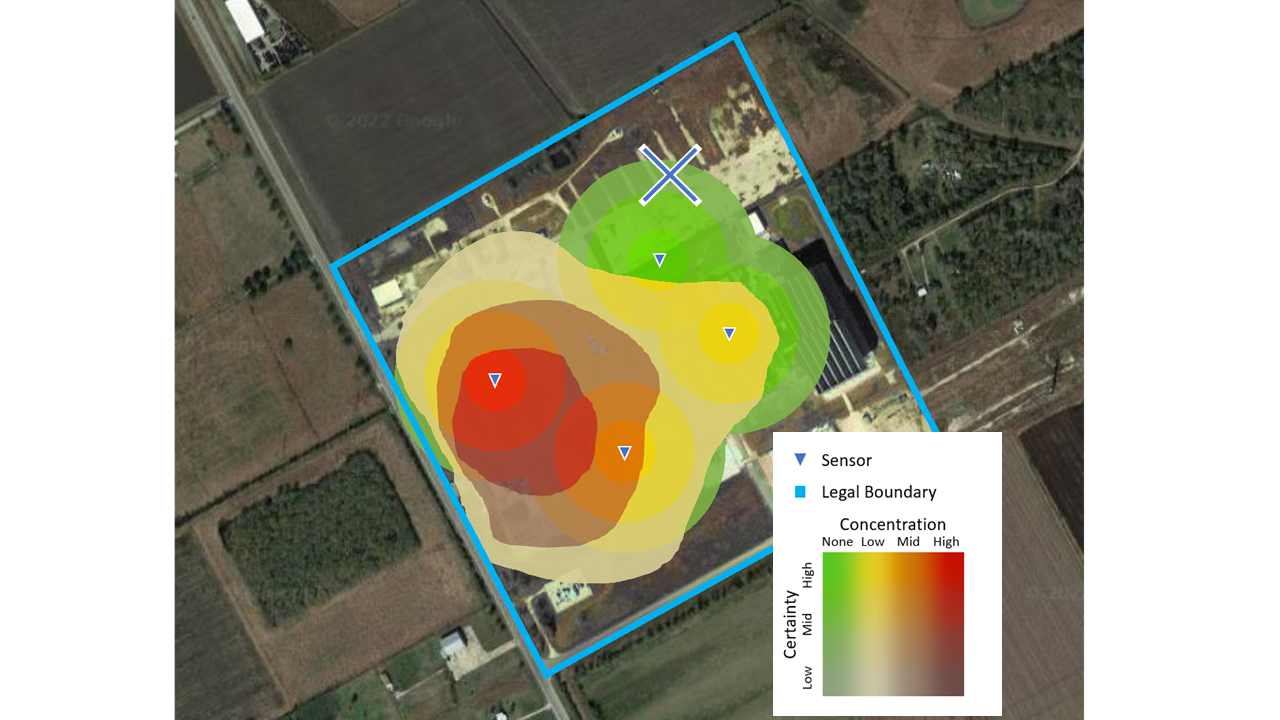
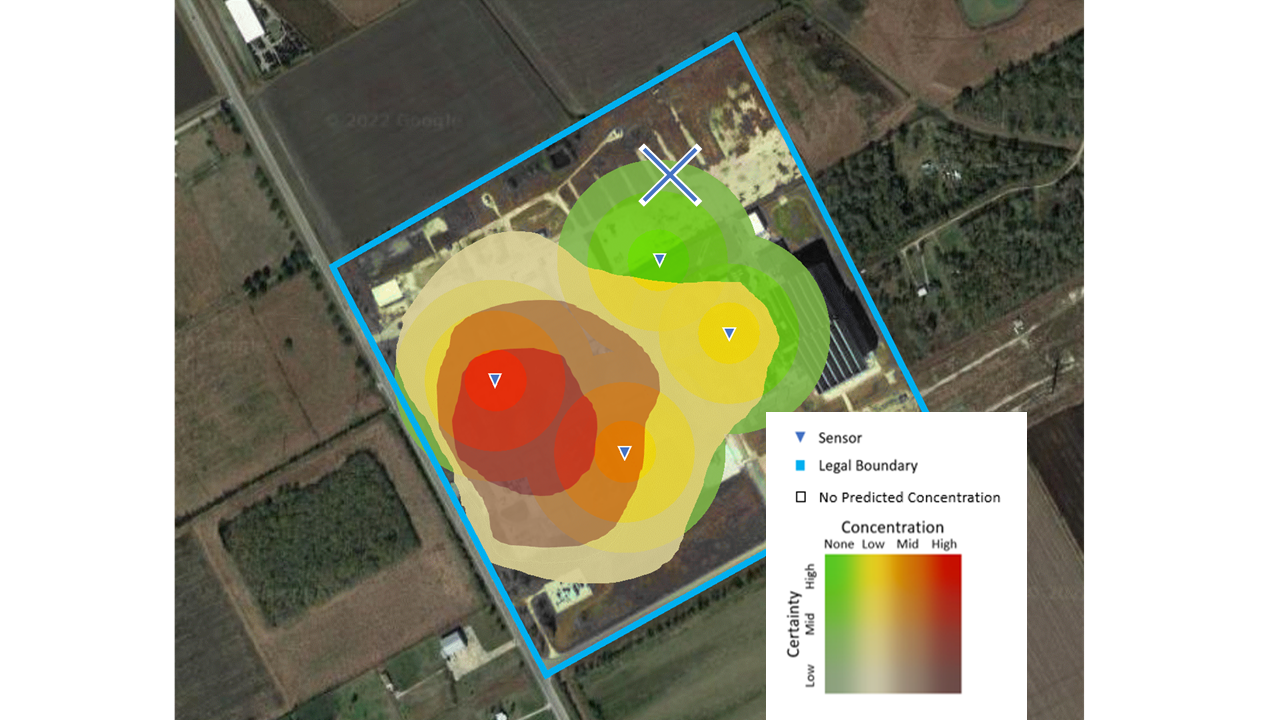
Changed images with new legend. Added questions relating to no concentration .

Changed region(s): [[0.5938, 0.55, 0.8125, 1.0]]

diff --git a/Version 2/instructions.js b/Version 2/instructions.js
@@ -10,31 +10,35 @@ const instructionText = {
     "visPage": [
         {
             "name": "Texture",
-            "text": "This visualization type employs colour and texture to differentiate between the concentration of the pollutants and the certainty of the pollution model.\n\nDifferent colours are used to distinguish between the levels of concentration, while textures (e.g., crosshatching, dotting) show the different degrees of certainty.",
+            "text": "This visualization type uses colour and texture to differentiate between the concentration of the pollutants and the certainty of the pollution model.\n\nDifferent colours are used to distinguish between the levels of concentration, while textures (e.g., crosshatching, dotting) show the different degrees of certainty.",
             "img-1": "vis-baseline.png",
             "img-2": "texture-instruct.png"
         },
         {
             "name": "HSV",
-            "text": "This visualization type uses colour value and colour saturation to differentiate between the concentration of the pollutants and the certainty of the pollution model.\n\nThe value of the colour shows the level of concentration, while the saturation shows the level of certainty.",
+            "text": "This visualization type uses colour value (i.e., the hue of the colour, such as red, green, or blue) and colour saturation (on a scale from grey to pure colour) to differentiate between the concentration of the pollutants and the certainty of the pollution model.\n\nThe value of the colour shows the level of concentration: for example, a red colour indicates high concentration. The saturation shows the level of certainty: for example, a greyish red indicates high concentration but low certainty.",
             "img-1": "vis-baseline.png",
             "img-2": "hsv-instruct.png"
         },
         {
             "name": "Static",
-            "text": "This visualization type uses a modelling algorithm to predict the extent of pollutants at a location. The visualization shows several outcomes of the model while using different sets of parameters.\nAll of the individual results are overlaid on the map at the same time.\n\nIndividual model outcomes are represented with grey lines. The red line indicates the average outcome of the model for high concentrations of the pollutant. The orange line indicates the average for medium concentrations of the pollutant. The yellow line indicates the average for low concentrations of the pollutant.",
+            "text": "This visualization type uses a modeling algorithm to predict the extent of pollutants at a location. All the predicted areas of concentration are overlaid onto a static map at the same time."
+            + "\n\nThe model makes a prediction of the polluted area at three different concentration levels: high, medium, and low. Multiple predictions of the model are made at each concentration level, and the results are overlaid on the map all at once in a static image."
+            + "\n\nIndividual model outcomes are represented with grey lines at various concentrations. Summary lines are used to indicate the average model prediction at each concentration level: a red line for the high concentration area, an orange line for the medium concentration area, and a yellow line for the low concentration area.",
             "img-1": "vis-baseline.png",
             "img-2": "static-instruct.png"
         },
         {
             "name": "Animated",
-            "text": "This visualization type uses a modelling algorithm to predict the extent of pollutants at a location. The visualization shows several outcomes of the model while using different sets of parameters.\nThe individual results are shown in different frames of the animation, as well as a coloured line that is used to show the average outcome.\n\nIndividual model outcomes are represented with grey lines. The red line indicates the average outcome of the model for high concentrations of the pollutant. The orange line indicates the average for medium concentrations of the pollutant. The yellow line indicates the average for low concentrations of the pollutant.",
+            "text": "This visualization type uses a modeling algorithm to predict the extent of pollutants at a location. An animation is used to show the different areas of pollutant concentration that are predicted by the model."
+                + "\n\nThe model makes a prediction of the polluted area at three different concentration levels: high, medium, and low. Multiple predictions of the model are made at each concentration level, and the results are animated onto the map one line at a time. Each individual line appears one by one in the visualization, followed by a coloured summary line that shows the mean of the lines at that concentration level."
+                + "\n\nIndividual model outcomes are represented with grey lines at various concentrations. Summary lines are used to indicate the average model prediction at each concentration level: a red line for the high concentration area, an orange line for the medium concentration area, and a yellow line for the low concentration area.",
             "img-1": "vis-baseline.png",
             "img-2": "animated-instruct.gif"
         },
         {
             "name": "VSUP",
-            "text": "This visualization type uses a value-suppressing uncertainty palette to show both pollutant contamination and certainty of the predictive model. A value-suppressing uncertainty palette maps both the pollutant contamination concentration and certainty of the predictive model to an output colour, with a greater ranger of colours reserved for more certain values. As concentration increases, the colour value changes. As the contamination concentration becomes less certain, there are less potential colours. Concentration values are split into more colours when the certainty is high, and fewer colours when the certainty is low.\n\nFor example, a high concentration prediction and a medium concentration prediction will have two different colours if they are nearby a sensor, as the certainty will be high. If the concentration predictions are further from a sensor, both predictions may be mapped to the same colour.",
+            "text": "This visualization type uses a value-suppressing uncertainty palette to show both pollutant contamination and certainty of the predictive model. A value-suppressing uncertainty palette maps both the pollutant contamination concentration and certainty of the predictive model to an output colour, with a greater ranger of colours reserved for more certain values. As concentration increases, the colour value changes. As the contamination concentration becomes less certain, there are fewer potential colours. Concentration values are split into more colours when the certainty is high, and fewer colours when the certainty is low.\n\nFor example, a high concentration prediction and a medium concentration prediction will have two different colours if they are nearby a sensor, as the certainty will be high. If the concentration predictions are further from a sensor, both predictions may be mapped to the same colour.",
             "img-1": "vis-baseline.png",
             "img-2": "vsup-instruct.png"
         },
@@ -54,27 +58,27 @@ const instructionText = {
     "questionPage": {
         "multiple": {
             "name": "Multiple Choice",
-            "text": "The following set of questions will be multiple choice questions, similar to the example above. Read the question carefully and select the response which most accurately and correctly answers the question.",
+            "text": "The following set of questions will be multiple choice questions, similar to the example above. A visualization image will be presented with each question. Read the question carefully and select the response which most accurately and correctly answers the question.",
             "img": "multiple-choice-instruction.png"
         },
         "click": {
             "name": "Click",
-            "text": "The following set of questions will require you to click on the image itself to answer the question. Read the question carefully and click on the location on the image which most accurately and correctly answers the question.",
+            "text": "The following set of questions will require you to click on the image itself to answer the question. A visualization image will be presented with each question. Read the question carefully and click on the location on the image which most accurately and correctly answers the question.",
             "img": "click-instruction.png"
         },
         "multiple-text": {
             "name": "Multiple Choice - Textbox",
-            "text": "The following set of questions will be multiple choice questions, followed by a text-entry box to describe your reasoning for your answer, similar to the example above. Read the question carefully and select the response which most accurately and correctly answers the question, and provide a reason for your response.",
+            "text": "The following set of questions will be multiple choice questions, followed by a text-entry box to describe your reasoning for your answer, similar to the example above. A visualization image will be presented with each question. Read the question carefully and select the response which most accurately and correctly answers the question, and provide a reason for your response.",
             "img": "multiple-choice-text-instruction.png"
         },
         "text": {
             "name": "Text Box",
-            "text": "The following set of questions will be a short answer question. Read the question carefully and enter your answer in the provided text box.",
+            "text": "The following set of questions will be a short answer question. A visualization image will be presented with each question. Read the question carefully and enter your answer in the provided text box.",
             "img": "text-instruction.png"
         },
         "mouseover": {
             "name": "Mouseover",
-            "text": "The following set of questions will include a mix of question types. In order to answer the questions, use your mouse to hover over the image, where a tooltip will inform you of the pollution model's certainty at that mouse location. Read the question carefully before providing your response.",
+            "text": "The following set of questions will include a mix of question types. In order to answer the questions, use your mouse to hover over the image, where a tooltip will inform you of the pollution model's certainty at that mouse location. A visualization image will be presented with each question. Read the question carefully before providing your response.",
             "img": "mouseover-instruct.png"
         }
     }

diff --git a/Version 2/questions.js b/Version 2/questions.js
@@ -668,7 +668,67 @@ const questions = {
             "orderGroup": 2,
             "RQ": 1
         },
-        
+        // No concentration questions
+        {
+            "id": 77,
+            "question": "What is the predicted concentration of the pollutant at the blue X-marked location?",
+            "answers": {
+                "type": "multiple",
+                "values": ["Very Low", "Low", "Somewhat Low", "Medium", "Somewhat High", "High", "Very High"]
+            },
+            "image": ["texture-edit7.png"],
+            "type": "technical",
+            "orderGroup": 1,
+            "RQ": 1
+        },
+        {
+            "id": 78,
+            "question": "What is the predicted concentration of the pollutant at the blue X-marked location?",
+            "answers": {
+                "type": "multiple",
+                "values": ["Very Low", "Low", "Somewhat Low", "Medium", "Somewhat High", "High", "Very High"]
+            },
+            "image": ["hsv-edit7.png"],
+            "type": "technical",
+            "orderGroup": 1,
+            "RQ": 1
+        },
+        {
+            "id": 79,
+            "question": "What is the predicted concentration of the pollutant at the blue X-marked location?",
+            "answers": {
+                "type": "multiple",
+                "values": ["Very Low", "Low", "Somewhat Low", "Medium", "Somewhat High", "High", "Very High"]
+            },
+            "image": ["vsup-edit4.png"],
+            "type": "technical",
+            "orderGroup": 1,
+            "RQ": 1
+        },
+        {
+            "id": 80,
+            "question": "What is the predicted concentration of the pollutant at the blue X-marked location?",
+            "answers": {
+                "type": "multiple",
+                "values": ["Very Low", "Low", "Somewhat Low", "Medium", "Somewhat High", "High", "Very High"]
+            },
+            "image": ["static-edit4.png"],
+            "type": "technical",
+            "orderGroup": 1,
+            "RQ": 1
+        },
+        {
+            "id": 81,
+            "question": "What is the predicted concentration of the pollutant at the blue X-marked location?",
+            "answers": {
+                "type": "multiple",
+                "values": ["Very Low", "Low", "Somewhat Low", "Medium", "Somewhat High", "High", "Very High"]
+            },
+            "image": ["separate-edit7.png"],
+            "type": "technical",
+            "orderGroup": 1,
+            "RQ": 1
+        },
 
 
 

diff --git a/Version 2/UncertaintyStudy.html b/Version 2/UncertaintyStudy.html
@@ -188,7 +188,7 @@
 
     .questionBox {
         margin: 20px auto 30px auto;
-        width: 80%;
+        width: 90%;
         border: 1px solid black;
         padding: 30px;
         font-family: Verdana, sans-serif;
